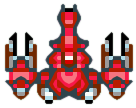
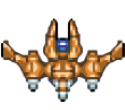
Добавил выбор корабля

diff --git a/start_menu.py b/start_menu.py
@@ -3,16 +3,20 @@ from random import choice
 from data.config import width, height, screen
 import pygame
 
-from sprites.config import all_sprites, menu_sprites, player_sprites, meteors_sprites, shot_sprites
-from sprites.funk.game import create_space, show_space_ship
+from sprites.config import all_sprites, menu_sprites, player_sprites, meteors_sprites, shot_sprites, \
+    choice_ship_sprites
+from sprites.funk.game import create_space, get_space_ship
 from sprites.menu.btn_exit import BtnExit
 from sprites.menu.btn_start import BtnStart
 from sprites.menu.choice_ship import ChoiceShip
 from sprites.menu.game_over import GameOver
 from sprites.menu.view_space_ship import ViewSpaceShip
+from sprites.player.menu_ship import MenuSpaceShip
+from sprites.player.show_ship import ShowShip
 
 FPS = 100
 running = True
+ship = None
 
 
 def terminate():
@@ -28,7 +32,7 @@ def clear_sprites_group():
     shot_sprites.empty()
 
 
-def game_over():
+def game_over(ship_type):
     pygame.mouse.set_visible(True)
     clear_sprites_group()
     clock = pygame.time.Clock()
@@ -40,35 +44,57 @@ def game_over():
                 terminate()
             elif event.type == pygame.KEYDOWN or \
                     event.type == pygame.MOUSEBUTTONDOWN:
-                return start_screen(screen)
+                return start_screen(screen, ship_type)
         menu_sprites.update()
         menu_sprites.draw(screen)
         pygame.display.flip()
         clock.tick(FPS)
 
 
-def start_screen(screen):
-    space_ship_type = 1
+def start_screen(screen, ship_type=1):
+    space_ship_type = ship_type
     clock = pygame.time.Clock()
     create_space()
-    ChoiceShip()
-    ViewSpaceShip()
+    view_ships()
+    ViewSpaceShip(space_ship_type)
     btn_start = BtnStart()
     btn_exit = BtnExit()
-    ship = show_space_ship(space_ship_type)
+    ship = MenuSpaceShip(space_ship_type)
     while running:
+        event = None
         for event in pygame.event.get():
             if event.type == pygame.QUIT:
                 terminate()
             elif event.type == pygame.MOUSEBUTTONDOWN:
                 if btn_start.rect.collidepoint(event.pos):
-                    ship.stop = False
-                    return ship
+                    menu_sprites.empty()
+                    return space_ship_type
                 if btn_exit.rect.collidepoint(event.pos):
                     terminate()
-        menu_sprites.update()
+                for ikon in choice_ship_sprites:
+                    if ikon.rect.collidepoint(event.pos):
+                        ship.kill()
+                        space_ship_type = ikon.type_ship
+                        ship = MenuSpaceShip(space_ship_type)
+            menu_sprites.update(event)
+        if not event:
+            menu_sprites.update()
         menu_sprites.draw(screen)
         pygame.display.flip()
         clock.tick(FPS)
+
+
+def view_ships():
+    window = ChoiceShip()
+    x_s = window.rect.x + window.rect.w // 4
+    x_e = window.rect.x + window.rect.w
+    y_s = window.rect.y + window.rect.h // 4
+    y_e = window.rect.y + window.rect.h
+    ship_type = 0
+    for y_n, y in enumerate(range(y_s, y_e, window.rect.h // 2)):
+        for x_n, x in enumerate(range(x_s, x_e, window.rect.w // 2)):
+            ship_type += 1
+            ViewSpaceShip(ship_type, x, y)
+            ShowShip(x, y, ship_type)
 
 

diff --git a/sprites/player/space_ship.py b/sprites/player/space_ship.py
@@ -15,22 +15,24 @@ from sprites.show_hp import ShowHP
 
 class SpaceShip(BaseTime):
     def __init__(self, type):
-        super(SpaceShip, self).__init__(all_sprites, menu_sprites, player_sprites)
+        super(SpaceShip, self).__init__(all_sprites,  player_sprites)
         self.image = load_image(['player', f'lvl_{type}', f'lvl{type}.png'])
         self.mask = pygame.mask.from_surface(self.image)
         self.rect = self.image.get_rect()
         self.rect.x = width // 2 - self.rect.width // 2
         self.rect.y = height * 0.38 - self.rect.height // 2
-        self.stop = True
         self.type = type
         self.hp_max = 1000
         self.hp = self.hp_max
         self.sprite_hp = ShowHP(self.rect.x + self.rect.w // 2, self.rect.y + self.rect.h, 1)
         self.damage = 40
+        self.weapon_damage = 12
         self.ship_fire = []
+        self.fire_cord = []
         self.time_tik = 0.2
         self.put_timer()
         self.power_magnet = 50
+        self.stop = False
 
     def show_hp(self):
         # self.sprite_hp.move(self.rect.x + self.rect.w // 2, self.rect.y + self.rect.h, self.hp / self.hp_max)
@@ -43,8 +45,16 @@ class SpaceShip(BaseTime):
     def can_shoot(self):
         if time.time() >= self.time_stop:
             x = self.rect.x + self.rect.w // 2
-            SpaceShipShot(self.type, x, self.rect.y)
+            SpaceShipShot(self.type, x, self.rect.y, self.weapon_damage)
             self.put_timer()
+
+    def ship_kill(self):
+        self.stop = True
+        for fire in self.ship_fire:
+            fire.kill()
+        self.sprite_hp.kill()
+        self.remove(all_sprites)
+        Bum(self, self.rect.x + self.rect.w // 2, self.rect.y + self.rect.h // 2)
 
     def follow_the_mouse(self):
         pos = pygame.mouse.get_pos()
@@ -55,16 +65,13 @@ class SpaceShip(BaseTime):
         if self.stop:
             return
         self.follow_the_mouse()
-        for fire in self.ship_fire:
+        for n, fire in enumerate(self.ship_fire):
+            # fire.move(*self.fire_cord[n])
             fire.move(self.rect.x + self.rect.w // 2, self.rect.y + self.rect.h)
         if pygame.sprite.spritecollide(self, meteors_sprites, False, pygame.sprite.collide_circle):
             self.hp -= 50
         self.can_shoot()
         self.show_hp()
         if self.hp <= 0:
-            self.stop = True
-            Bum(self, self.rect.x + self.rect.w // 2, self.rect.y + self.rect.h // 2)
-            self.remove(all_sprites)
-            for fire in self.ship_fire:
-                fire.kill()
+            self.ship_kill()
 

diff --git a/app.py b/app.py
@@ -3,8 +3,9 @@ import threading
 from time import sleep
 
 from data.config import *
+from game_things import koins
 from sprites.config import all_sprites, player_sprites
-from sprites.funk.game import create_meteor
+from sprites.funk.game import create_meteor, get_space_ship
 from start_menu import start_screen, game_over
 
 
@@ -20,7 +21,9 @@ def check_event():
 if __name__ == '__main__':
     size = width, height = size
     screen = screen
-    player = start_screen(screen)
+    koins = 0
+    ship_type = start_screen(screen)
+    player = get_space_ship(ship_type)
     pygame.mouse.set_visible(False)
     running = True
     clock = pygame.time.Clock()
@@ -28,7 +31,7 @@ if __name__ == '__main__':
     while running:
         screen.fill((0, 0, 0))
         if not player.alive():
-            player = game_over()
+            player = get_space_ship(game_over(ship_type))
         check_event()
         all_sprites.draw(screen)
         create_meteor()

diff --git a/sprites/menu/view_space_ship.py b/sprites/menu/view_space_ship.py
@@ -1,13 +1,14 @@
 import pygame
 from data.config import size, width, height
 from data.images.funk import load_image
-from sprites.config import all_sprites, menu_sprites
+from sprites.config import all_sprites, menu_sprites, choice_ship_sprites
 
 
 class ViewSpaceShip(pygame.sprite.Sprite):
-    def __init__(self):
-        super(ViewSpaceShip, self).__init__(menu_sprites)
+    def __init__(self, type_ship, x=width // 2, y=height * 0.37):
+        super(ViewSpaceShip, self).__init__(menu_sprites, choice_ship_sprites)
         self.image = load_image(['menu', 'view_space_ship.png'], -1)
         self.rect = self.image.get_rect()
-        self.rect.x = width // 2 - self.rect.width // 2
-        self.rect.y = height * 0.37 - self.rect.height // 2
+        self.rect.x = x - self.rect.w // 2
+        self.rect.y = y - self.rect.h // 2
+        self.type_ship = type_ship

diff --git a/sprites/funk/game.py b/sprites/funk/game.py
@@ -5,6 +5,9 @@ from sprites.config import all_sprites, menu_sprites, player_sprites, meteors_sp
 from sprites.environment.meteor import Meteor
 from sprites.environment.space import Space
 from sprites.player.lvl_1.lvl1 import ShipLevel1
+from sprites.player.lvl_2.lvl_2 import ShipLevel2
+from sprites.player.lvl_3.lvl_3 import ShipLevel3
+from sprites.player.lvl_4.lvl_4 import ShipLevel4
 from sprites.player.space_ship import SpaceShip
 
 cur_meteor = -1
@@ -17,10 +20,16 @@ def create_space():
     Space(0)
 
 
-def show_space_ship(type):
+def get_space_ship(type):
     ship = None
     if type == 1:
         ship = ShipLevel1(type)
+    if type == 2:
+        ship = ShipLevel2(type)
+    if type == 3:
+        ship = ShipLevel3(type)
+    if type == 4:
+        ship = ShipLevel4(type)
     return ship
 
 

diff --git a/sprites/player/lvl_2/lvl_2.py b/sprites/player/lvl_2/lvl_2.py
@@ -2,17 +2,17 @@ from sprites.player.fire import ShipFire
 from sprites.player.space_ship import SpaceShip
 
 
-class ShipLevel1(SpaceShip):
+class ShipLevel2(SpaceShip):
     def __init__(self, type):
-        super(ShipLevel1, self).__init__(type)
-        self.hp_max = 1000
+        super(ShipLevel2, self).__init__(type)
+        self.hp_max = 2000
         self.hp = self.hp_max
-        self.damage = 30
-        self.weapon_damage = 8
+        self.damage = 40
+        self.weapon_damage = 20
+        self.ship_fire = []
         self.time_tik = 0.2
         self.put_fire()
 
     def put_fire(self):
-        self.fire_cord = [(self.rect.x + self.rect.w // 2, self.rect.y + self.rect.h)]
         self.ship_fire.append(ShipFire(self.rect.x + self.rect.w // 2, self.rect.y + self.rect.h))
 

diff --git a/sprites/environment/koin.py b/sprites/environment/koin.py
@@ -3,6 +3,7 @@ import time
 import pygame
 
 from data.images.funk import load_image
+from game_things import koins
 from sprites.base_animate_sprite import BaseAnimateSprite
 from sprites.config import all_sprites, player_sprites
 
@@ -22,6 +23,7 @@ class Koin(BaseAnimateSprite):
 
     def update(self, *arg):
         if pygame.sprite.spritecollideany(self, player_sprites, pygame.sprite.collide_circle):
+            # koins += 1
             self.kill()
         for ship in pygame.sprite.spritecollide(self, player_sprites, False,
                                                 pygame.sprite.collide_circle_ratio(1.7)):

diff --git a/sprites/player/menu_ship.py b/sprites/player/menu_ship.py
@@ -1,0 +1,15 @@
+import pygame
+
+from data.config import width, height
+from data.images.funk import load_image
+from sprites.config import menu_sprites
+
+
+class MenuSpaceShip(pygame.sprite.Sprite):
+    def __init__(self, type):
+        super(MenuSpaceShip, self).__init__(menu_sprites)
+        self.image = load_image(['player', f'lvl_{type}', f'lvl{type}.png'])
+        self.mask = pygame.mask.from_surface(self.image)
+        self.rect = self.image.get_rect()
+        self.rect.x = width // 2 - self.rect.width // 2
+        self.rect.y = height * 0.38 - self.rect.height // 2

diff --git a/sprites/player/lvl_3/lvl_3.py b/sprites/player/lvl_3/lvl_3.py
@@ -1,0 +1,18 @@
+from sprites.player.fire import ShipFire
+from sprites.player.space_ship import SpaceShip
+
+
+class ShipLevel3(SpaceShip):
+    def __init__(self, type):
+        super(ShipLevel3, self).__init__(type)
+        self.hp_max = 3000
+        self.hp = self.hp_max
+        self.damage = 50
+        self.weapon_damage = 30
+        self.ship_fire = []
+        self.time_tik = 0.4
+        self.put_fire()
+
+    def put_fire(self):
+        self.ship_fire.append(ShipFire(self.rect.x + self.rect.w, self.rect.y + self.rect.h))
+

diff --git a/sprites/player/lvl_4/lvl_4.py b/sprites/player/lvl_4/lvl_4.py
@@ -1,0 +1,18 @@
+from sprites.player.fire import ShipFire
+from sprites.player.space_ship import SpaceShip
+
+
+class ShipLevel4(SpaceShip):
+    def __init__(self, type):
+        super(ShipLevel4, self).__init__(type)
+        self.hp_max = 4000
+        self.hp = self.hp_max
+        self.damage = 30
+        self.weapon_damage = 35
+        self.ship_fire = []
+        self.time_tik = 0.2
+        self.put_fire()
+
+    def put_fire(self):
+        self.ship_fire.append(ShipFire(self.rect.x + self.rect.w, self.rect.y + self.rect.h))
+

diff --git a/sprites/player/show_ship.py b/sprites/player/show_ship.py
@@ -1,0 +1,16 @@
+import time
+
+import pygame
+
+from data.config import width, height
+from data.images.funk import load_image
+from sprites.config import all_sprites, menu_sprites
+
+
+class ShowShip(pygame.sprite.Sprite):
+    def __init__(self, x, y, type):
+        super(ShowShip, self).__init__(menu_sprites)
+        self.image = load_image(['player', f'lvl_{type}', f'lvl{type}.png'], -1)
+        self.rect = self.image.get_rect()
+        self.rect.x = x - self.rect.w // 2
+        self.rect.y = y - self.rect.h // 2

diff --git a/sprites/environment/bum.py b/sprites/environment/bum.py
@@ -12,8 +12,8 @@ class Bum(BaseAnimateSprite):
         super(Bum, self).__init__(all_sprites)
         columns, rows = 5, 4
         sheet = load_image(['environment', 'bum.png'], -1)
-        self.image = self.frames[self.cur_frame]
         self.cut_sheet(sheet, columns, rows)
+        self.image = self.frames[self.cur_frame]
         self.rect.x = x - self.rect.w // 2
         self.rect.y = y - self.rect.h // 2
         self.time_tik = 0.12
